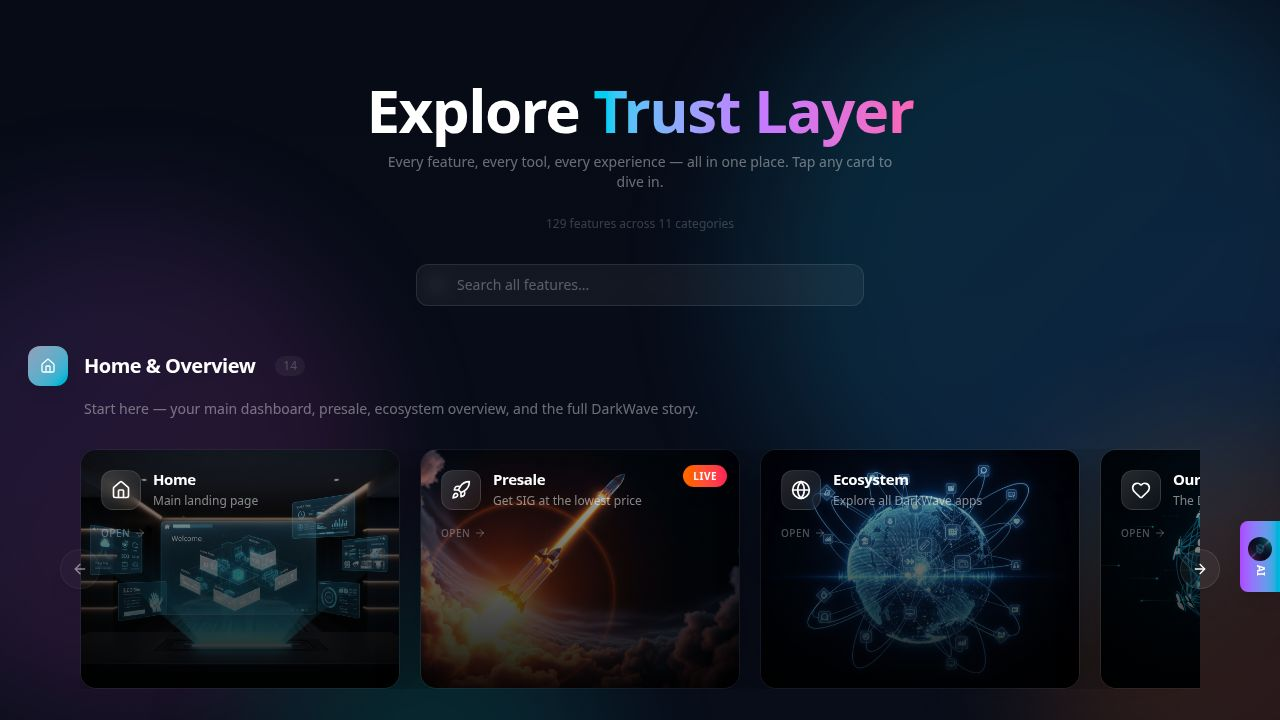
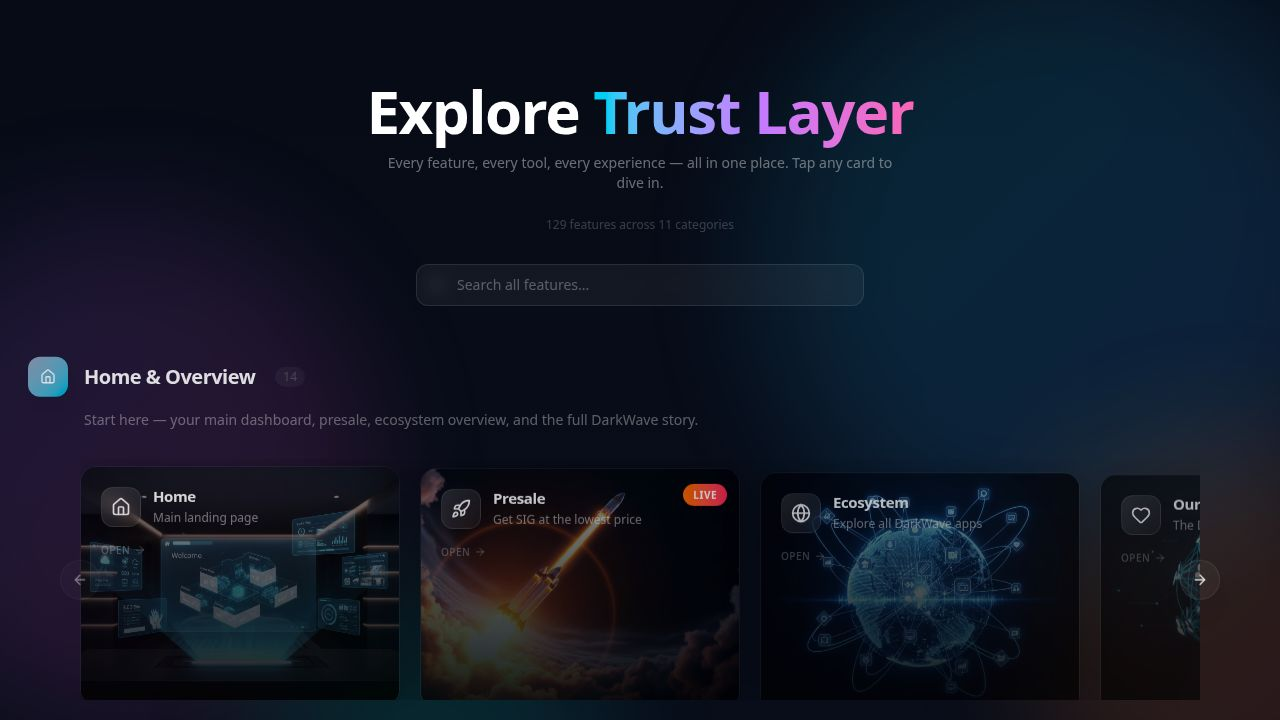
Fix application errors and improve loading reliability
Update Content Security Policy to allow inline scripts, add error handling for application startup, and ensure proper font loading for a more robust user experience.

Replit-Commit-Author: Agent
Replit-Commit-Session-Id: 5ee7e3ca-07b6-41d6-9b2a-417160958786
Replit-Commit-Checkpoint-Type: full_checkpoint
Replit-Commit-Event-Id: 09919dbf-de11-4167-b6e4-75af5b4c563c
Replit-Commit-Screenshot-Url: https://storage.googleapis.com/screenshot-production-us-central1/605f8aff-5e91-4581-9509-5e471a311930/5ee7e3ca-07b6-41d6-9b2a-417160958786/qzBPfKy
Replit-Helium-Checkpoint-Created: true

diff --git a/client/index.html b/client/index.html
@@ -81,7 +81,7 @@
     <link rel="apple-touch-startup-image" href="/splash/apple-splash-1080x1920.png" media="(device-width: 360px) and (device-height: 640px) and (-webkit-device-pixel-ratio: 3)" />
     <link rel="preconnect" href="https://fonts.googleapis.com">
     <link rel="preconnect" href="https://fonts.gstatic.com" crossorigin>
-    <link href="https://fonts.googleapis.com/css2?family=Inter:wght@300;400;500;600&family=Rajdhani:wght@400;500;600;700&family=Space+Grotesk:wght@300;400;500;600;700&display=swap" rel="stylesheet" media="print" onload="this.media='all'">
+    <link href="https://fonts.googleapis.com/css2?family=Inter:wght@300;400;500;600&family=Rajdhani:wght@400;500;600;700&family=Space+Grotesk:wght@300;400;500;600;700&display=swap" rel="stylesheet">
     
     <script>
       window.loadMonaco = function() {
@@ -112,6 +112,18 @@
     <script>
       window.__tlLoaded = false;
       window.__tlScriptStarted = false;
+      window.onerror = function(msg, src, line, col, err) {
+        var d = document.getElementById('initial-loader');
+        if (d) {
+          d.innerHTML = '<div style="text-align:center;max-width:420px;padding:20px"><div style="font-size:36px;margin-bottom:12px">&#9888;</div><h2 style="color:#22d3ee;margin-bottom:8px;font-family:system-ui">Load Error</h2><p style="color:#94a3b8;font-size:13px;font-family:monospace;word-break:break-all;margin-bottom:16px">' + (msg || 'Unknown error') + '</p><button onclick="location.reload()" style="background:linear-gradient(135deg,#06b6d4,#8b5cf6);color:#fff;border:none;border-radius:12px;padding:14px 32px;font-size:16px;cursor:pointer;font-weight:600">Reload</button></div>';
+        }
+      };
+      window.addEventListener('unhandledrejection', function(e) {
+        var d = document.getElementById('initial-loader');
+        if (d && !window.__tlLoaded) {
+          d.innerHTML = '<div style="text-align:center;max-width:420px;padding:20px"><div style="font-size:36px;margin-bottom:12px">&#9888;</div><h2 style="color:#22d3ee;margin-bottom:8px;font-family:system-ui">Load Error</h2><p style="color:#94a3b8;font-size:13px;font-family:monospace;word-break:break-all;margin-bottom:16px">' + (e.reason || 'Promise rejection') + '</p><button onclick="location.reload()" style="background:linear-gradient(135deg,#06b6d4,#8b5cf6);color:#fff;border:none;border-radius:12px;padding:14px 32px;font-size:16px;cursor:pointer;font-weight:600">Reload</button></div>';
+        }
+      });
     </script>
     <script type="module" src="/src/main.tsx"></script>
   </body>

diff --git a/client/src/main.tsx b/client/src/main.tsx
@@ -146,5 +146,13 @@ if ('serviceWorker' in navigator) {
   });
 }
 
-(window as any).__tlLoaded = true;
-createRoot(document.getElementById("root")!).render(<App />);
+try {
+  (window as any).__tlLoaded = true;
+  createRoot(document.getElementById("root")!).render(<App />);
+} catch (err: any) {
+  const root = document.getElementById("root");
+  if (root) {
+    root.innerHTML = `<div style="min-height:100vh;display:flex;align-items:center;justify-content:center;flex-direction:column;gap:16px;padding:2rem;background:#0a0f1e"><div style="text-align:center;max-width:420px"><div style="font-size:48px;margin-bottom:16px">&#9888;</div><h2 style="color:#22d3ee;margin-bottom:8px;font-family:system-ui">Startup Error</h2><p style="color:#94a3b8;font-size:13px;font-family:monospace;word-break:break-all;margin-bottom:16px">${err?.message || err}</p><button onclick="location.reload()" style="background:linear-gradient(135deg,#06b6d4,#8b5cf6);color:#fff;border:none;border-radius:12px;padding:14px 32px;font-size:16px;cursor:pointer;font-weight:600">Reload</button></div></div>`;
+  }
+  console.error("[STARTUP]", err);
+}

diff --git a/server/index.ts b/server/index.ts
@@ -104,7 +104,7 @@ const isProduction = process.env.NODE_ENV === "production";
 const cspDirectives = {
   defaultSrc: ["'self'"],
   scriptSrc: isProduction 
-    ? ["'self'", "'unsafe-eval'", "https://js.stripe.com", "https://www.googletagmanager.com", "https://cdnjs.cloudflare.com"]
+    ? ["'self'", "'unsafe-inline'", "'unsafe-eval'", "https://js.stripe.com", "https://www.googletagmanager.com", "https://cdnjs.cloudflare.com"]
     : ["'self'", "'unsafe-inline'", "'unsafe-eval'", "https://cdnjs.cloudflare.com"],
   styleSrc: isProduction
     ? ["'self'", "'unsafe-inline'", "https://fonts.googleapis.com"]
@@ -118,6 +118,7 @@ const cspDirectives = {
   baseUri: ["'self'"],
   formAction: ["'self'"],
   frameAncestors: isProduction ? ["'self'"] : ["'self'", "https://*.replit.dev", "https://*.repl.co", "https://replit.com"],
+  scriptSrcAttr: null,
   upgradeInsecureRequests: isProduction ? [] : null,
 };
 
